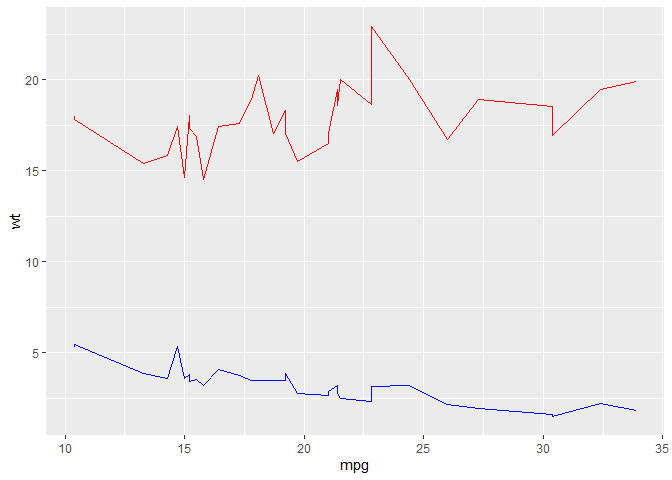
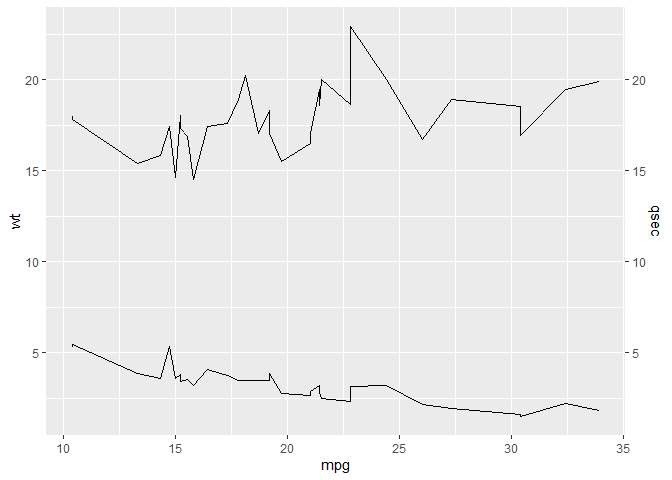
update README

diff --git a/README.md b/README.md
@@ -34,8 +34,12 @@ library(ggplot2)
 
 mtcars |> 
   ggplot(aes(x = mpg)) +
-  geom_line(aes(y = wt), color = "blue") +
-  geom_line(aes(y = qsec), color = "red")
+  geom_line(aes(y = wt)) +
+  geom_line(aes(y = qsec)) +
+  scale_y_continuous(
+    name = "wt",
+    sec.axis = sec_axis(~ ., name = "qsec")
+  )
 ```
 
 <img src="man/figures/README-ggplot-example-1.png" width="100%" />
